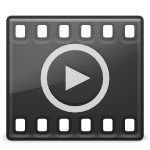
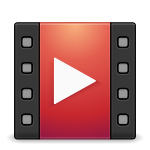
Fix dao display, add covers for music and video files

diff --git a/web/css/bach.css b/web/css/bach.css
@@ -429,12 +429,9 @@ p {
     width: auto;
 }
 
-[id=search_results] article figure a.flashplayer img {
-    margin-top: 33px;
-}
-
+[id=search_results] article figure a.flashplayer img,
 [id=search_results] article figure a.flashmusicplayer img {
-    margin-top: 70px;
+    margin-top: 0;
 }
 
 [id=search_results] a.flashmusicplayer h2 {
@@ -1222,9 +1219,21 @@ figure section {
 
 .content figure section ul{
     list-style-type:none;
+}
+.content figure section ul.playlist {
     height: 15em;
     overflow: auto;
 }
+.content figure section ul.playlist li {
+    padding: 0;
+    text-align: left;
+}
+
+.playlist a {
+    display: block;
+    padding: .3em .5em;
+}
+
 .content figure section li:nth-child(even){
     background-color: #d1c6c0;
 }
@@ -1236,7 +1245,6 @@ list-style-type: none;
 figure section a, figure section video {
     background-repeat: repeat-x;
     display: inline-block;
-    width: 600px;
     text-align: left;
     vertical-align: middle;
     position: relative;
@@ -1246,6 +1254,7 @@ figure section a.flashplayer span.title {
     position: absolute;
     bottom: 0;
     left: 0;
+    padding: .1em .5em;
 }
 
 #musicplayer {
@@ -1266,10 +1275,13 @@ figure section a.flashplayer, figure section video {
 
 figure section a.flashplayer {
     height: 300px;
+    width: 300px;
+    margin: .2em;
+    text-align: center;
 }
 
 a.flashplayer img {
-    margin-top: 108px;
+    margin-top: 48px;
 }
 
 a.flashplayer h2,

diff --git a/src/Bach/HomeBundle/Twig/DisplayDao.php b/src/Bach/HomeBundle/Twig/DisplayDao.php
@@ -106,7 +106,8 @@ class DisplayDao extends \Twig_Extension
                 $format,
                 false,
                 true,
-                $this->_covers_dir
+                $this->_covers_dir,
+                false
             );
         } else {
             $res = '';
@@ -133,12 +134,12 @@ class DisplayDao extends \Twig_Extension
      * @param string  $viewer     Viewer URL
      * @param string  $format     Format to display, defaults to thumb
      * @param boolean $ajax       Is call came from ajax
-     * @param boolean $standalone Is document standalone? Defaults to true.
+     * @param string  $covers_dir Covers directory
      *
      * @return DOMElement
      */
     public static function displayDaos($daogrps, $daos, $viewer, $format = 'thumb',
-        $ajax = false, $standalone = true
+        $ajax = false, $covers_dir = null
     ) {
         //start root element
         $res = '<div>';
@@ -157,6 +158,16 @@ class DisplayDao extends \Twig_Extension
                     $gres['title'] = (string)$xml_dg['title'];
                 }
 
+                $results = array(
+                    self::IMAGE     => array(),
+                    self::SERIES    => array(),
+                    self::VIDEO     => array(),
+                    self::FLASH     => array(),
+                    self::SOUND     => array(),
+                    self::FLA_SOUND => array(),
+                    self::MISC     => array()
+                );
+
                 foreach ( $xml_dg->children() as $node_name => $xml_dao ) {
                     if ( $node_name === 'dao' || $node_name === 'daoloc' ) {
                         $dao = (string)$xml_dao['href'];
@@ -164,15 +175,19 @@ class DisplayDao extends \Twig_Extension
                         if ( $xml_dao['title'] ) {
                             $daotitle = $xml_dao['title'];
                         }
-                        $gres['content'][] = self::proceedDao(
+
+                        $results[self::_getType($dao)][] = self::proceedDao(
                             $dao,
                             $daotitle,
                             $viewer,
                             $format,
-                            $ajax
+                            $ajax,
+                            true,
+                            $covers_dir
                         );
                     }
                 }
+                $gres['content'] = $results;
                 $groups_results[] = $gres;
             }
 
@@ -182,11 +197,66 @@ class DisplayDao extends \Twig_Extension
                     $res .= '<header><h4>' . $group['title'] . '</h4></header>';
                 }
 
-                $res .= '<ul>';
-                foreach ( $group['content'] as $document ) {
-                    $res .= $document;
+                $results = $group['content'];
+
+                if ( count($results[self::IMAGE]) > 0 ) {
+                    $res .= '<div>';
+                    foreach ( $results[self::IMAGE] as $image ) {
+                        $res .= $image;
+                    }
+                    $res .= '</div>';
                 }
-                $res .= '</ul>';
+
+                if ( count($results[self::SERIES]) > 0 ) {
+                    $res .= '<div>';
+                    foreach ( $results[self::SERIES] as $series ) {
+                        $res .= $series;
+                    }
+                    $res .= '</div>';
+                }
+
+                if ( count($results[self::SOUND]) > 0 ) {
+                    $res .= '<div>';
+                    foreach ( $results[self::SOUND] as $sound ) {
+                        $res .= $sound;
+                    }
+                    $res .= '</div>';
+                }
+
+                if ( count($results[self::FLA_SOUND]) > 0 ) {
+                    $res .= '<div>';
+                    $res .= '<ul class="playlist">';
+                    foreach ( $results[self::FLA_SOUND] as $sound ) {
+                        $res .= $sound;
+                    }
+                    $res .= '</ul>';
+                    $res .= '</div>';
+                }
+
+                if ( count($results[self::VIDEO]) > 0 ) {
+                    $res .= '<div>';
+                    foreach ( $results[self::VIDEO] as $video ) {
+                        $res .= $video;
+                    }
+                    $res .= '</div>';
+                }
+
+                if ( count($results[self::FLASH]) > 0 ) {
+                    $res .= '<div>';
+                    foreach ( $results[self::FLASH] as $flash ) {
+                        $res .= $flash;
+                    }
+                    $res .= '</div>';
+                }
+
+                if ( count($results[self::MISC]) > 0 ) {
+                    $res .= '<div>';
+                    foreach ( $results[self::MISC] as $other ) {
+                        $res .= $other;
+                    }
+                    $res .= '</div>';
+                }
+
                 $res .= '</section>';
             }
         }
@@ -330,11 +400,12 @@ class DisplayDao extends \Twig_Extension
      * @param boolean $ajax       Does call came from ajax
      * @param boolean $standalone Is a standalone document, defaults to true
      * @param boolean $covers_dir Covers directory
+     * @param boolean $all        Proceed all daos
      *
      * @return string
      */
     public static function proceedDao($dao, $daotitle, $viewer, $format,
-        $ajax = false, $standalone = true, $covers_dir = null
+        $ajax = false, $standalone = true, $covers_dir = null, $all = true
     ) {
         $ret = null;
 
@@ -397,7 +468,39 @@ class DisplayDao extends \Twig_Extension
             $ret = '<a' . $class . ' href="' . $href . '" title="' .
                 $title  . '">';
             if ( $standalone === true ) {
-                $ret .= '<img src="/img/play_large.png" alt="' . $dao . '"/>';
+                if ( $covers_dir !== null ) {
+                    //check if a cover exists
+                    $name_wo_ext = str_replace(
+                        ltrim(strstr($dao, '.'), '.'),
+                        '',
+                        $dao
+                    );
+
+                    $cover_name = $name_wo_ext .= 'jpg';
+                    $src = '';
+                    $alt = '';
+
+                    if ( file_exists($covers_dir . '/' . $cover_name) ) {
+                        $src = '/file/covers/';
+                        if ( $format === 'thumbs' ) {
+                            $src = 'thumb/';
+                        }
+                        $src .= $cover_name;
+                    } else {
+                        $filetype = self::_guessFileType($dao);
+                        $src = '/img/' . $filetype . 'nocover.png';
+                    }
+
+                    if ( $daotitle ) {
+                        $alt = $daotitle;
+                    } else {
+                        $alt = $dao;
+                    }
+
+                    $ret .='<img src="' . $src . '" alt="' . $alt . '"/>';
+                } else {
+                    $ret .= '<img src="/img/play_large.png" alt="' . $dao . '"/>';
+                }
             }
             if ( $daotitle !== null ) {
                 $ret .= '<span class="title">' . $daotitle . '</span>';
@@ -406,6 +509,7 @@ class DisplayDao extends \Twig_Extension
             break;
         case self::FLA_SOUND;
             $class = '';
+            $ret = '';
             if ( $standalone === true ) {
                 $class = ' class="';
                 if ( $ajax !== false ) {
@@ -413,13 +517,54 @@ class DisplayDao extends \Twig_Extension
                 }
                 $class .= 'flashmusicplayer"';
             }
+            if ( $all === true ) {
+                $ret .= '<li>';
+            }
             $href = '/file/music/' . $dao;
-            $ret = '<li><a' . $class . ' href="' . $href . '" title="' .
+            $ret .= '<a' . $class . ' href="' . $href . '" title="' .
                 $title  . '">';
+            if ( $all === false ) {
+                if ( $covers_dir !== null ) {
+                    //check if a cover exists
+                    $name_wo_ext = str_replace(
+                        ltrim(strstr($dao, '.'), '.'),
+                        '',
+                        $dao
+                    );
+
+                    $cover_name = $name_wo_ext .= 'jpg';
+                    $src = '';
+                    $alt = '';
+
+                    if ( file_exists($covers_dir . '/' . $cover_name) ) {
+                        $src = '/file/covers/';
+                        if ( $format === 'thumbs' ) {
+                            $src = 'thumb/';
+                        }
+                        $src .= $cover_name;
+                    } else {
+                        $filetype = self::_guessFileType($dao);
+                        $src = '/img/' . $filetype . 'nocover.png';
+                    }
+
+                    if ( $daotitle ) {
+                        $alt = $daotitle;
+                    } else {
+                        $alt = $dao;
+                    }
+
+                    $ret .='<img src="' . $src . '" alt="' . $alt . '"/>';
+                } else {
+                    $ret .= '<img src="/img/sound_nocover.png" alt="' . $dao . '"/>';
+                }
+            }
             if ( $daotitle !== null ) {
                 $ret .= '<span class="title">' . $daotitle . '</span>';
             }
-            $ret .= '</a></li>';
+            $ret .= '</a>';
+            if ( $all === true ) {
+                $ret .= '</li>';
+            }
             break;
         case self::MISC:
             $title = str_replace(
@@ -515,7 +660,13 @@ class DisplayDao extends \Twig_Extension
             case 'flv':
             case 'avi':
             case 'mpg':
+            case 'ogv':
+            case 'mp4':
+            case 'mov':
                 return 'movie_';
+                break;
+            case 'mp3':
+                return 'sound_';
                 break;
             default:
                 return '';
